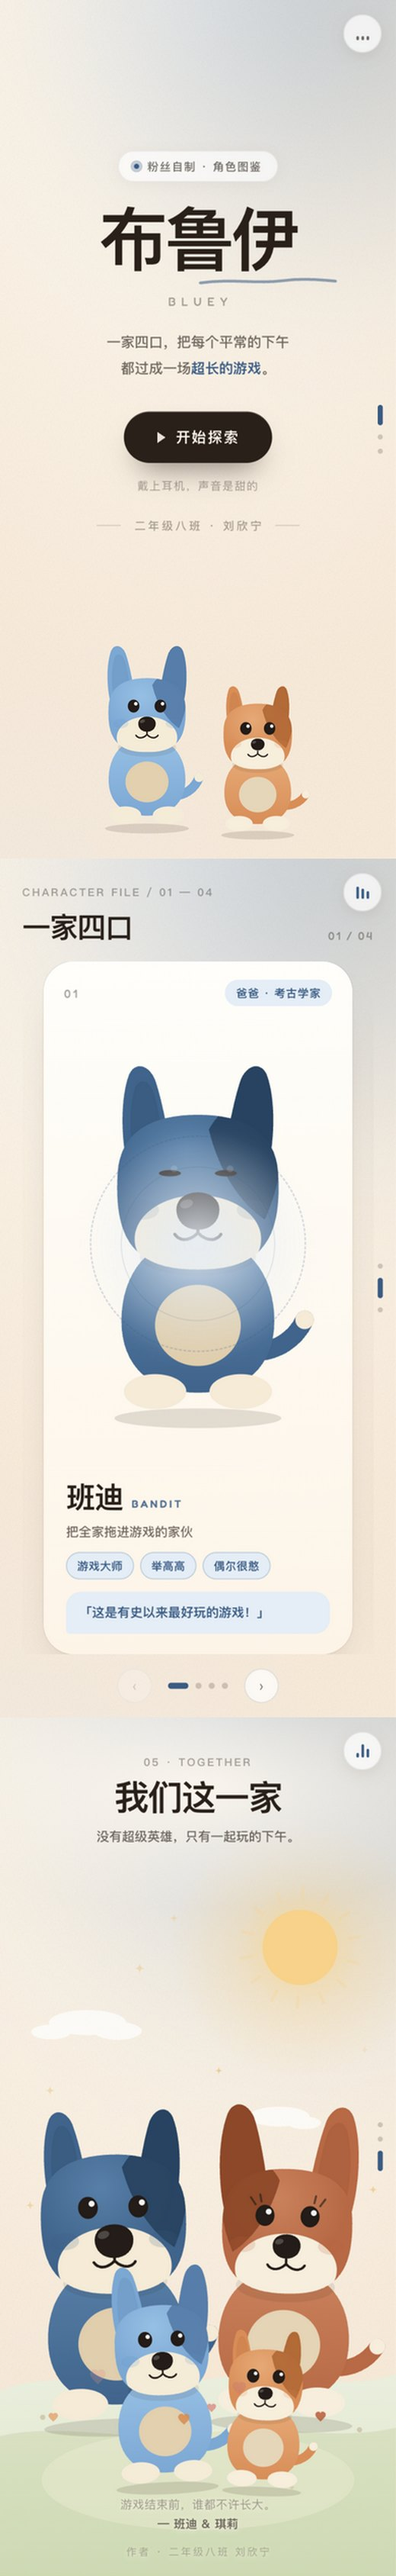
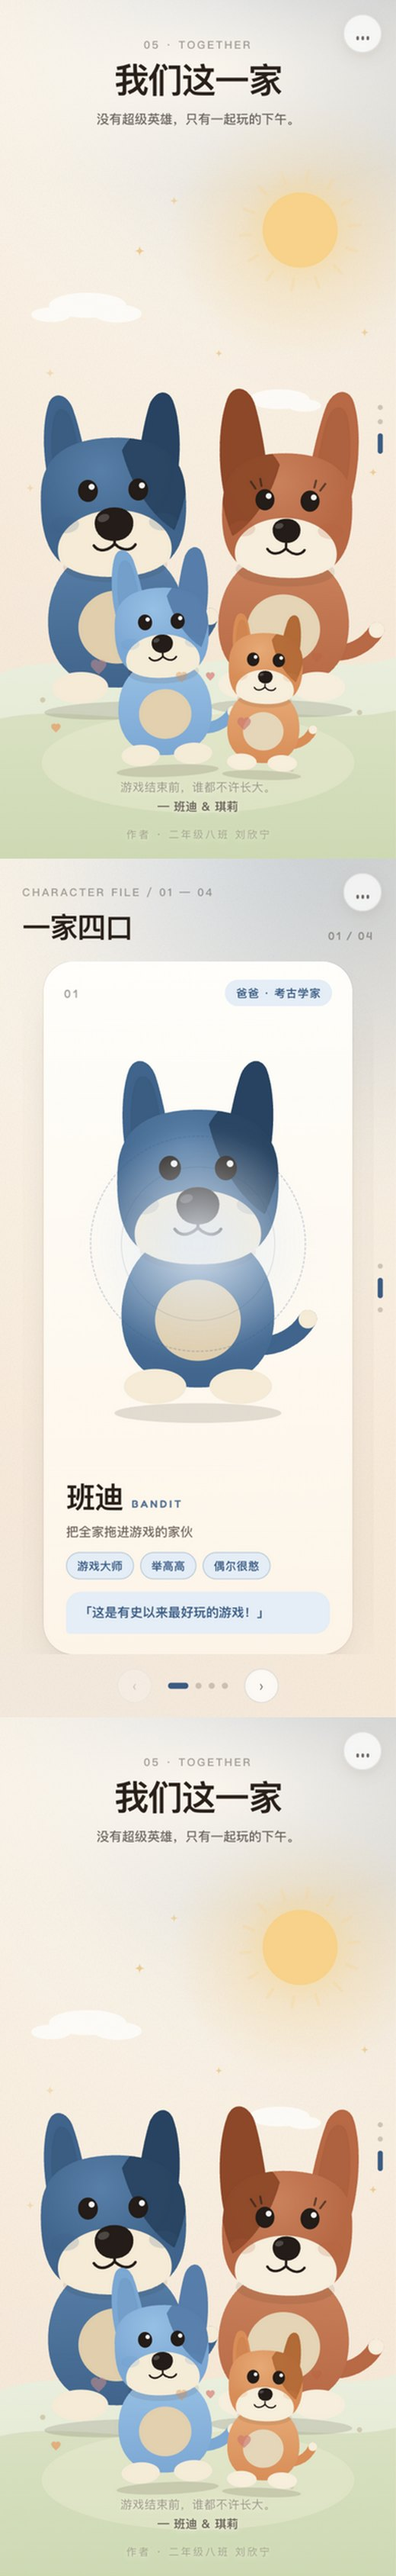
feat: 封面署名改为作者本人，新增站点首页 index.html

diff --git a/index.html b/index.html
@@ -1,0 +1,90 @@
+<!DOCTYPE html>
+<html lang="zh-CN">
+<head>
+<meta charset="utf-8" />
+<meta name="viewport" content="width=device-width, initial-scale=1" />
+<title>H5 Stash</title>
+<style>
+  *{box-sizing:border-box;}
+  html,body{margin:0;padding:0;}
+  body{
+    min-height:100vh;
+    background:radial-gradient(120% 80% at 50% -10%, #FFFDF9 0%, #FFF6E9 45%, #FBE9D5 100%);
+    color:#2A2019;
+    font-family:"PingFang SC","Hiragino Sans GB","Noto Sans SC","Microsoft YaHei",system-ui,-apple-system,sans-serif;
+    -webkit-font-smoothing:antialiased;
+    padding:clamp(28px,6vw,72px) clamp(20px,5vw,40px) 60px;
+  }
+  .wrap{max-width:1000px;margin:0 auto;}
+  .eyebrow{margin:0;font-size:11px;letter-spacing:.28em;text-transform:uppercase;color:rgba(42,32,25,.42);font-weight:600;}
+  h1{margin:14px 0 0;font-size:clamp(28px,5vw,44px);font-weight:800;letter-spacing:-.03em;line-height:1.15;}
+  .sub{margin:14px 0 0;font-size:14px;line-height:1.75;color:rgba(42,32,25,.6);}
+  .grid{
+    margin-top:clamp(28px,5vw,48px);
+    display:grid;gap:clamp(16px,2.4vw,26px);
+    grid-template-columns:repeat(auto-fill,minmax(min(100%,240px),1fr));
+  }
+  .card{
+    display:flex;flex-direction:column;overflow:hidden;text-decoration:none;color:inherit;
+    background:#FFFDFA;border-radius:22px;
+    box-shadow:0 0 0 1px rgba(74,48,26,.06), 0 22px 40px -28px rgba(74,48,26,.5);
+    transition:transform .45s cubic-bezier(.2,.8,.2,1), box-shadow .45s cubic-bezier(.2,.8,.2,1);
+  }
+  .card:hover,.card:focus-visible{
+    transform:translateY(-6px);
+    box-shadow:0 0 0 1px rgba(74,48,26,.09), 0 34px 54px -30px rgba(74,48,26,.55);
+    outline:none;
+  }
+  .thumb{position:relative;aspect-ratio:4/5;overflow:hidden;background:#F6E7D5;}
+  .thumb img{width:100%;height:100%;object-fit:cover;object-position:top center;display:block;
+    transition:transform .7s cubic-bezier(.2,.8,.2,1);}
+  .card:hover .thumb img{transform:scale(1.04);}
+  .meta{padding:16px 18px 20px;display:flex;flex-direction:column;gap:6px;}
+  .meta h2{margin:0;font-size:16.5px;font-weight:800;letter-spacing:-.02em;line-height:1.3;}
+  .meta p{margin:0;font-size:12px;line-height:1.6;color:rgba(42,32,25,.52);}
+  .meta span{margin-top:8px;font-size:11.5px;font-weight:600;color:#C4562F;letter-spacing:.06em;}
+  footer{margin-top:clamp(36px,6vw,60px);font-size:11.5px;line-height:1.8;color:rgba(42,32,25,.34);letter-spacing:.02em;}
+  footer a{color:inherit;}
+</style>
+</head>
+<body>
+<div class="wrap">
+  <p class="eyebrow">H5 Stash</p>
+  <h1>随手攒的几个 H5</h1>
+  <p class="sub">单文件、零外部依赖，双击就能跑；手机上打开效果最好。</p>
+
+  <main class="grid">
+    <a class="card" href="bluey-family/">
+      <div class="thumb"><img src="bluey-family/preview-hero.jpg" alt="布鲁伊 · 一家四口" /></div>
+      <div class="meta">
+        <h2>布鲁伊 · 一家四口</h2>
+        <p>角色图鉴 · 四张卡 + 一家四口合集</p>
+        <span>二年级八班 刘欣宁</span>
+      </div>
+    </a>
+
+    <a class="card" href="peppa-family/">
+      <div class="thumb"><img src="peppa-family/preview-hero.jpg" alt="小猪佩奇 · 我们这一家" /></div>
+      <div class="meta">
+        <h2>小猪佩奇 · 我们这一家</h2>
+        <p>粉色一家人的角色页</p>
+        <span>H5</span>
+      </div>
+    </a>
+
+    <a class="card" href="wedding/">
+      <div class="thumb"><img src="wedding/preview-hero.jpg" alt="屿 · 晚 — 婚礼邀请函" /></div>
+      <div class="meta">
+        <h2>屿 · 晚</h2>
+        <p>婚礼邀请函</p>
+        <span>Invitation</span>
+      </div>
+    </a>
+  </main>
+
+  <footer>
+    GitHub Pages 托管 · <a href="https://github.com/taotao1101012/h5-stash">taotao1101012/h5-stash</a>
+  </footer>
+</div>
+</body>
+</html>

diff --git a/bluey-family/index.html b/bluey-family/index.html
@@ -307,7 +307,7 @@ body{
   <!-- ============ 0 封面 ============ -->
   <section class="panel panel--cover is-active" data-panel="0">
     <div class="cover">
-      <span class="pill"><span class="pill__dot"></span>粉丝自制 · 角色图鉴</span>
+      <span class="pill"><span class="pill__dot"></span>二年级八班 · 刘欣宁</span>
       <div class="cover__title-wrap">
         <h1 class="cover__title">布鲁伊</h1>
         <svg class="cover__swoosh" viewBox="0 0 260 16" aria-hidden="true">
@@ -322,7 +322,7 @@ body{
         <span>开始探索</span>
       </button>
       <p class="cover__hint">戴上耳机，声音是甜的</p>
-      <p class="cover__credit">二年级八班 · 刘欣宁</p>
+      <p class="cover__credit">角色图鉴 · 一家四口</p>
     </div>
     <div class="cover__cast" id="coverCast" aria-hidden="true"></div>
   </section>

diff --git a/bluey-family/README.md b/bluey-family/README.md
@@ -31,4 +31,4 @@ python3 -m http.server 8765   # 然后打开 http://127.0.0.1:8765/index.html
 
 所有角色文案集中在文件顶部的 `CHARS` 数组里（名字、身份、标签、台词、配色），改完刷新即可。角色图形在下面的 `dogMarkup()`，坐标是 240×336 的 viewBox。
 
-> 非官方粉丝作品，角色为致敬性的手绘 SVG 再创作，未使用动画原片素材。
+> 校园练习作品，角色为致敬性的手绘 SVG 再创作，未使用动画原片素材。
